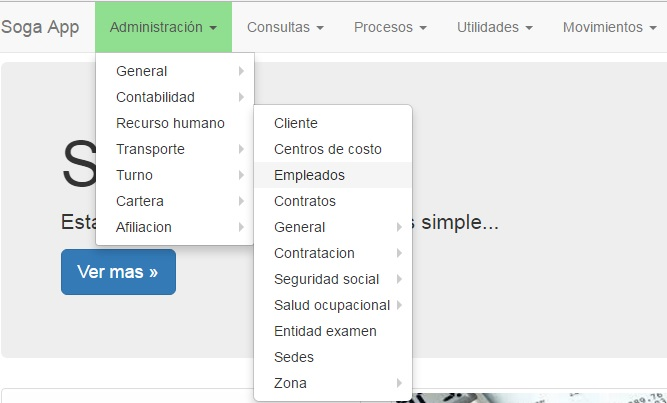
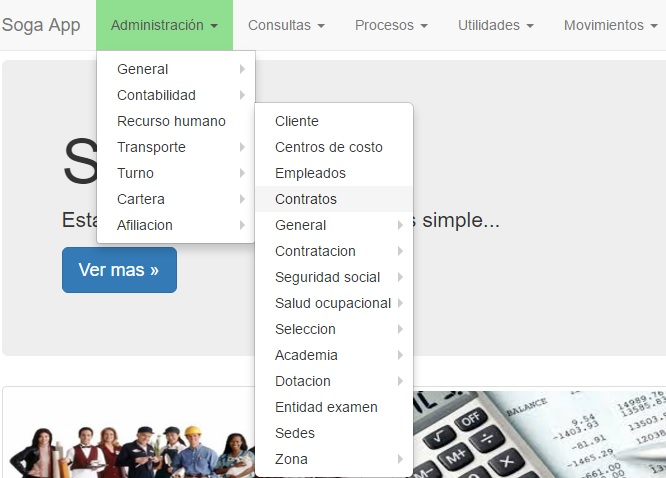
Actualizacion 06 Contratos desde empleados.

diff --git a/documentacion/recurso_humano/administracion/contratos/contrato.php b/documentacion/recurso_humano/administracion/contratos/contrato.php
@@ -1,0 +1,72 @@
+<!DOCTYPE html>
+<?php $strRutaVacia = '../../../../'; ?>
+<html lang="en">
+    <head>
+        <title>Recurso Humano</title>
+        <?php include $strRutaVacia.'general/referencias2.php'; ?>
+    </head>
+    <body id="page2">
+        <div class="body1">
+            <div class="body2">
+                <div class="body5">
+                    <div class="main">
+                        <!-- header -->
+                        <header>
+                            <?php include $strRutaVacia.'general/menu.php'; ?>
+                        </header>
+                        <!-- header end-->
+                    </div>
+                </div>
+            </div>
+        </div>
+        <div class="body3">
+            <div class="main">
+                <article id="content">
+                        <div class="tab-content" id="tab1">
+                            <h5><span class="dropcap"><strong>03</strong><span>01.01</span></span>Modulo de contratos</h5>
+                            <div class="wrapper pad_bot2">
+                                <ul>
+                                    <li> 
+                                        En el modulo de contratos se puede realizar la busqueda de los contratos ya creados en el sistema, terminacion del contrato y cambios. <br> <br>
+                                        
+                                        Para ingresar al módulo de contratos vamos a Administración - Recurso humano - contratos. <br> <br>
+                                        
+                                        <img src="../../../../images/recurso_humano/contrato/contrato1.jpg"  alt=""/> <br> <br> <br>         
+                                        
+                                        Al ingresar observamos los contratos ya creados en el sistema con su respectivo sistema de busqueda. <br> <br>
+                     
+                                        <img src="../../../../images/recurso_humano/contrato/contrato2.jpg"  alt="" width="920"/> <br> <br>
+                                        
+                                        En esta ventana vamos a realizar las modificaciones a los contratos como lo son: <br><br>
+                                        <a href="editar/editar.php" class="link1"> Editar contrato<br></a>
+                                        <a href="terminacion/terminacion.php" class="link1"> Terminacion de contrato.<br></a>
+                                        <a href="cambio/cambio.php" class="link1">Cambio de contrato.<br></a>
+                                        <a href="detalle/detalle.php" class="link1">Ver el detalle del contrato.<br> <br></a>
+                                        
+                                        
+                                    </li>
+                                </ul>    
+                            </div>                            
+                        </div>
+                </article>
+                <a href="../administracionContrato.php" class="link1">Volver</a>
+                <br /><br />
+            </div>
+        </div>
+        <div class="body4">
+            <?php include $strRutaVacia.'general/cuerpo4.php'; ?>
+        </div>
+        <div class="main">
+            <!-- footer -->
+            <?php include $strRutaVacia.'general/pie.php'; ?>
+            <!-- footer end -->
+        </div>
+        <script type="text/javascript"> Cufon.now();</script>
+        <script>
+            $(document).ready(function () {
+                tabs.init();
+            })
+        </script>
+    </body>
+</html>
+

diff --git a/documentacion/recurso_humano/administracion/contratoEmplaedo/contratoEmpleado.php b/documentacion/recurso_humano/administracion/contratoEmplaedo/contratoEmpleado.php
@@ -29,13 +29,13 @@
                                     <li> 
                                         Para crear el contrato de un empleado nos dirigimos al modulo administración- recurso humano- empleados.<br> <br>
                                         
-                                        <img src="../../../../images/recurso_humano/contrato/contrato1.jpg"  alt=""/> <br> <br>
+                                        <img src="../../../../images/recurso_humano/contratoEmpleado/contrato1.jpg"  alt=""/> <br> <br>
                                         
                                         Hecho esto nos aparecerá la lista de empleados ya creados, para generar el nuevo contrato <br>
                                         vamos a buscar el empleado que deseamos filtrando su nombre o número de documento. <br> <br>
                                         Una vez nos aparezca vamos a la opción acciones nuevo- contrato.
                                         
-                                        <img src="../../../../images/recurso_humano/contrato/contrato2.jpg"  alt="" width="920"/> <br> <br>
+                                        <img src="../../../../images/recurso_humano/contratoEmpleado/contrato2.jpg"  alt="" width="920"/> <br> <br>
                                         
                                         Una vez hecho esto, procederemos a ingresar la siguiente información. <br> <br>
                                         
@@ -64,14 +64,14 @@
                                         Caja de compensación (Nombre de caja de compensación a la que pertenece) <br>
                                         Cesantía (Nombre de cesantía a la que pertenece) <br> <br>
                                         
-                                        <img src="../../../../images/recurso_humano/contrato/contrato3.jpg"  alt="" width="920"/> 
-                                        <img src="../../../../images/recurso_humano/contrato/contrato4.jpg"  alt="" width="920"/> <br> <br>
+                                        <img src="../../../../images/recurso_humano/contratoEmpleado/contrato3.jpg"  alt="" width="920"/> 
+                                        <img src="../../../../images/recurso_humano/contratoEmpleado/contrato4.jpg"  alt="" width="920"/> <br> <br>
                                         
-                                        Al ingresar esta información vamos a la opción <img src="../../../../images/recurso_humano/contrato/contrato5.jpg"  alt="" width="50"/> <br> <br>
+                                        Al ingresar esta información vamos a la opción <img src="../../../../images/recurso_humano/contratoEmpleado/contrato5.jpg"  alt="" width="50"/> <br> <br>
                                         
                                         Con este paso finalizamos el proceso y nos quedara generado el nuevo contrato. <br> <br>
                                         
-                                        <img src="../../../../images/recurso_humano/contrato/contrato6.jpg"  alt="" width="920"/>
+                                        <img src="../../../../images/recurso_humano/contratoEmpleado/contrato6.jpg"  alt="" width="920"/>
 
                                     </li>
                                 </ul>    

diff --git a/documentacion/recurso_humano/administracion/contratos/editar/editar.php b/documentacion/recurso_humano/administracion/contratos/editar/editar.php
@@ -1,5 +1,5 @@
 <!DOCTYPE html>
-<?php $strRutaVacia = '../../../'; ?>
+<?php $strRutaVacia = '../../../../../'; ?>
 <html lang="en">
     <head>
         <title>Recurso Humano</title>
@@ -23,21 +23,30 @@
             <div class="main">
                 <article id="content">
                         <div class="tab-content" id="tab1">
-                            <h5><span class="dropcap"><strong>03</strong><span>01.04</span></span>Contratos</h5>
+                            <h5><span class="dropcap"><strong>03</strong><span>01.01</span></span>Editar contrato</h5>
                             <div class="wrapper pad_bot2">
                                 <ul>
-                                    <li>
-                                        Para el modulo de contratos vamos a explorar dos opciones que son importantes. <br> <br>
+                                    <li> 
+                                        Para editar un contrato vamos a la opción editar el registro <img src="../../../../../images/recurso_humano/contrato/contrato3.jpg"  alt="" /> y se nos desplegara la siguiente pantalla.<br> <br>
                                         
-                                        La creacion de un contrato de un empleado ya creado. <a href="contratoEmplaedo/contratoEmpleado.php" class="link1"> Verificar. <br> </a>
-                                        El modulo de contratos que nos da una vision general y detallada de los contratos que estan creados en el sistema. <a href="contratos/contrato.php" class="link1"> Verificar. <br>  <br> </a> 
-                                       
+                                        <img src="../../../../../images/recurso_humano/contrato/contrato4.jpg"  alt="" width="920"/> 
+                                        <img src="../../../../../images/recurso_humano/contrato/contrato5.jpg"  alt="" width="920"/> <br> <br>
+                                        
+                                        A través de este formulario solo modificamos el campo que necesitemos actualizar y finalizamos con el botón guardar. <br> <br>
+                                        
+                                        
+                                        
+                                        
+                                        
+                                        
+                                        
+                                        
                                     </li>
                                 </ul>    
                             </div>                            
                         </div>
                 </article>
-                <a href="../lista.php" class="link1">Volver</a>
+                <a href="../contrato.php" class="link1">Volver</a>
                 <br /><br />
             </div>
         </div>
